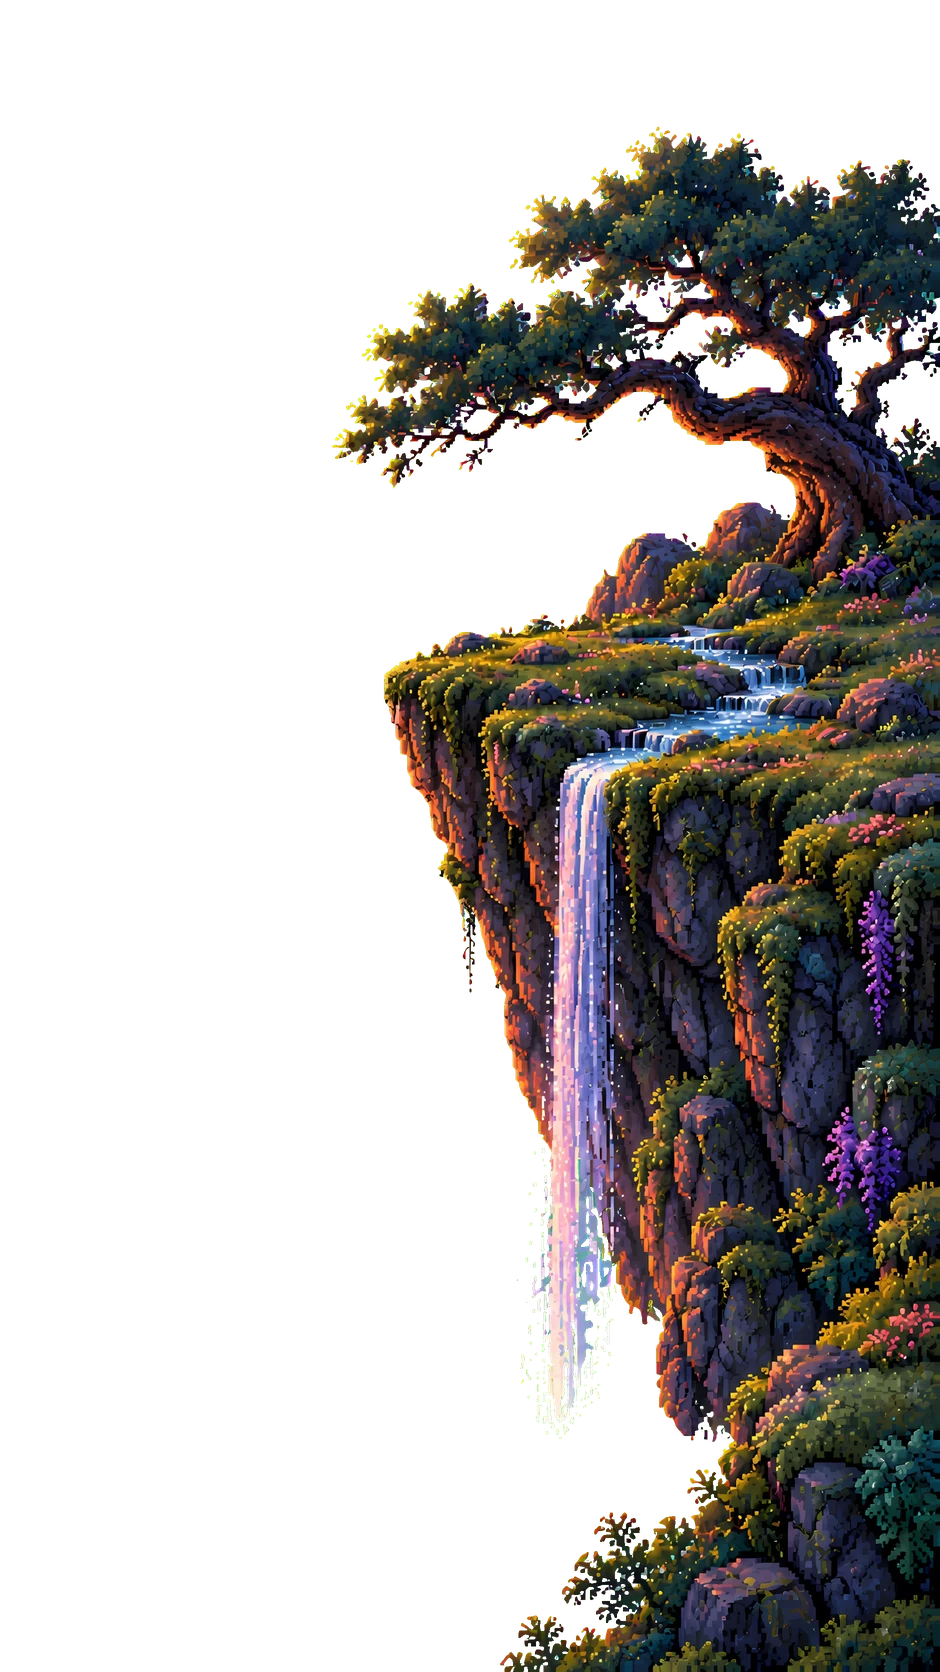
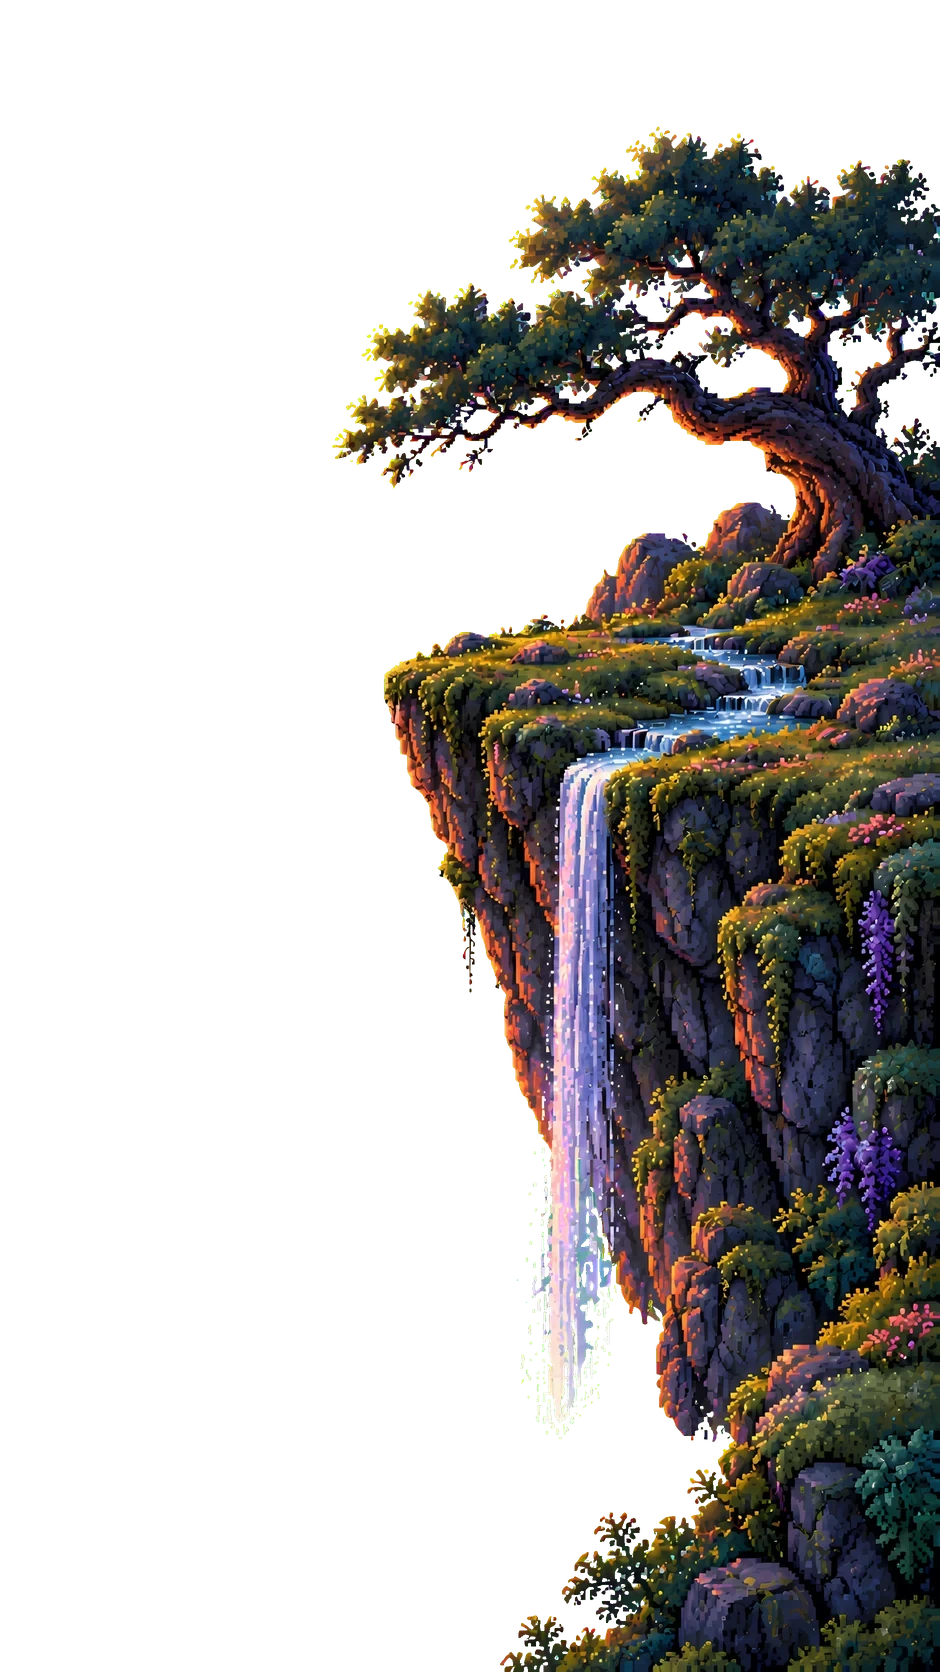
Cool the palette: pull pinks toward blue in the cliff/valley art and UI tints

diff --git a/src/descent/descent.css b/src/descent/descent.css
@@ -16,7 +16,7 @@ html, body { margin: 0; background: #0b0a14; font-family: Karla, sans-serif; ove
 
 /* the cloud passage: a wall of painted clouds pinned in the world (sized from main.ts) */
 #clouds { position: fixed; left: 0; top: 0; width: 100vw; z-index: 20; pointer-events: none; will-change: transform; }
-#clouds .solid { position: absolute; left: 0; right: 0; top: calc(var(--band) / 2); bottom: calc(var(--band) / 2); background: linear-gradient(#c48cba, #b47fb3 50%, #c48cba); }
+#clouds .solid { position: absolute; left: 0; right: 0; top: calc(var(--band) / 2); bottom: calc(var(--band) / 2); background: linear-gradient(#b18bc2, #a17fb8 50%, #b18bc2); }
 #clouds .band { position: absolute; left: 0; right: 0; height: var(--band); background: url(/descent/clouds.webp) repeat-x 0 0 / auto 100%; animation: drift 70s linear infinite; }
 #clouds .top { top: 0; }
 #clouds .mid { top: calc(50% - var(--band) / 2); opacity: .85; animation-direction: reverse; animation-duration: 50s; }
@@ -24,10 +24,10 @@ html, body { margin: 0; background: #0b0a14; font-family: Karla, sans-serif; ove
 @keyframes drift { to { background-position: calc(-1 * var(--tile)) 0; } }
 
 /* ---------- text: set straight on the painting, over a soft shade on the left ---------- */
-:root { --ink: #fff8ec; --dim: #e6dcef; --accent: #ffd27a; --line: rgba(255, 248, 236, .28); }
+:root { --ink: #fff8ec; --dim: #dce4f2; --accent: #ffd27a; --line: rgba(255, 248, 236, .28); }
 html { scroll-behavior: smooth; }
 body::before { content: ''; position: fixed; inset: 0; z-index: 5; pointer-events: none;
-  background: linear-gradient(90deg, rgba(12, 8, 28, .62) 0%, rgba(12, 8, 28, .38) 30%, rgba(12, 8, 28, 0) 55%); }
+  background: linear-gradient(90deg, rgba(8, 12, 30, .62) 0%, rgba(8, 12, 30, .38) 30%, rgba(8, 12, 30, 0) 55%); }
 #track { z-index: 10; pointer-events: none; }
 .place { position: absolute; left: clamp(20px, 7vw, 132px); width: min(36rem, calc(100vw - 40px)); color: var(--ink); pointer-events: auto; }
 .place, .bar, .gauge { text-shadow: 0 2px 0 rgba(15, 8, 30, .55), 0 0 22px rgba(10, 6, 24, .6); }
@@ -74,7 +74,7 @@ h2 { font-size: clamp(2.6rem, 5vw, 4.4rem); }
 
 /* header bar */
 .bar { position: fixed; top: 0; left: 0; right: 0; z-index: 25; display: flex; align-items: center; justify-content: space-between; gap: 24px; padding: 18px clamp(20px, 4vw, 56px);
-  background: linear-gradient(rgba(12, 8, 28, .55), rgba(12, 8, 28, 0)); font-family: 'Pixelify Sans', monospace; }
+  background: linear-gradient(rgba(8, 12, 30, .55), rgba(8, 12, 30, 0)); font-family: 'Pixelify Sans', monospace; }
 .bar a { color: var(--ink); text-decoration: none; }
 .bar .mark { font-weight: 600; font-size: 1.15rem; }
 .bar nav { display: flex; gap: clamp(14px, 2vw, 28px); font-size: .95rem; }
@@ -115,7 +115,7 @@ h2 { font-size: clamp(2.6rem, 5vw, 4.4rem); }
 
 /* ---------- phones ---------- */
 @media (max-width: 700px) {
-  body::before { background: linear-gradient(rgba(12, 8, 28, .25), rgba(12, 8, 28, .45)); }
+  body::before { background: linear-gradient(rgba(8, 12, 30, .25), rgba(8, 12, 30, .45)); }
   .place { left: 20px; width: calc(100vw - 40px); }
   .hero { padding-top: 84px; }
   .block { gap: 18px; }

diff --git a/src/descent/main.ts b/src/descent/main.ts
@@ -79,7 +79,7 @@ const ALL_SCENES: SceneDef[] = [
     ],
     particles: [
       { kind: 'birds', y0: 150, y1: 520, n: 5 }, { kind: 'petals', rect: [380, 300, 940, 1100], n: 14 },
-      { kind: 'mist', x: 580, y: 1410, n: 26 }, { kind: 'motes', rect: [0, 400, 940, 1500], n: 18, color: '#ffd9ef' },
+      { kind: 'mist', x: 580, y: 1410, n: 26 }, { kind: 'motes', rect: [0, 400, 940, 1500], n: 18, color: '#d9e4ff' },
     ],
   },
   {
@@ -399,7 +399,7 @@ function drawParticles(s: Scene, oy: number, t: number) {
         const ph = (t * 0.06 + R(i, 1)) % 1;
         const x = x1 - ph * (x1 - x0) * 1.3 + Math.sin(t * 2 + i) * 3;
         const y = oy + y0 + R(i, 2) * (y1 - y0) + ph * 40;
-        dot(x, y, i % 3 ? '#f4a3c8' : '#ffe2f0', 0.9, Math.floor(t * 4 + i) % 2 ? 2 : 1, 1);
+        dot(x, y, i % 3 ? '#a9c4ff' : '#e2ecff', 0.9, Math.floor(t * 4 + i) % 2 ? 2 : 1, 1);
       }
     } else if (pt.kind === 'embers') {
       for (let i = 0; i < 16; i++) {

diff --git a/scripts/cool-tones.py b/scripts/cool-tones.py
@@ -1,0 +1,25 @@
+"""
+Pull the pink/magenta tones of the cliff and valley scenes (and the cloud band)
+toward blue, leaving greens, oranges and the waterfall alone.
+Run ONCE after prepare-scenes.py; running it again shifts the colours further.
+"""
+import numpy as np
+from PIL import Image
+
+def shift(path):
+    im = Image.open(path)
+    alpha = im.getchannel('A') if im.mode == 'RGBA' else None
+    hsv = np.array(im.convert('RGB').convert('HSV')).astype(np.float32)
+    h = hsv[..., 0] * 360 / 255
+    w = np.clip(1 - np.abs(h - 310) / 45, 0, 1)  # strongest at magenta, fading by violet and rose
+    hsv[..., 0] = ((h + (225 - h) * w * 0.85) % 360) * 255 / 360
+    hsv[..., 1] *= 1 - 0.15 * w
+    out = Image.fromarray(hsv.astype(np.uint8), 'HSV').convert('RGB')
+    if alpha is not None:
+        out.putalpha(alpha)
+    out.save(path, 'WEBP', quality=90, method=6)
+
+files = [f'public/descent/s{n}-{l}{m}.webp' for n in (1, 2) for l in ('bg', 'fg') for m in ('', '-m')] + ['public/descent/clouds.webp']
+for f in files:
+    shift(f)
+    print('cooled', f)
